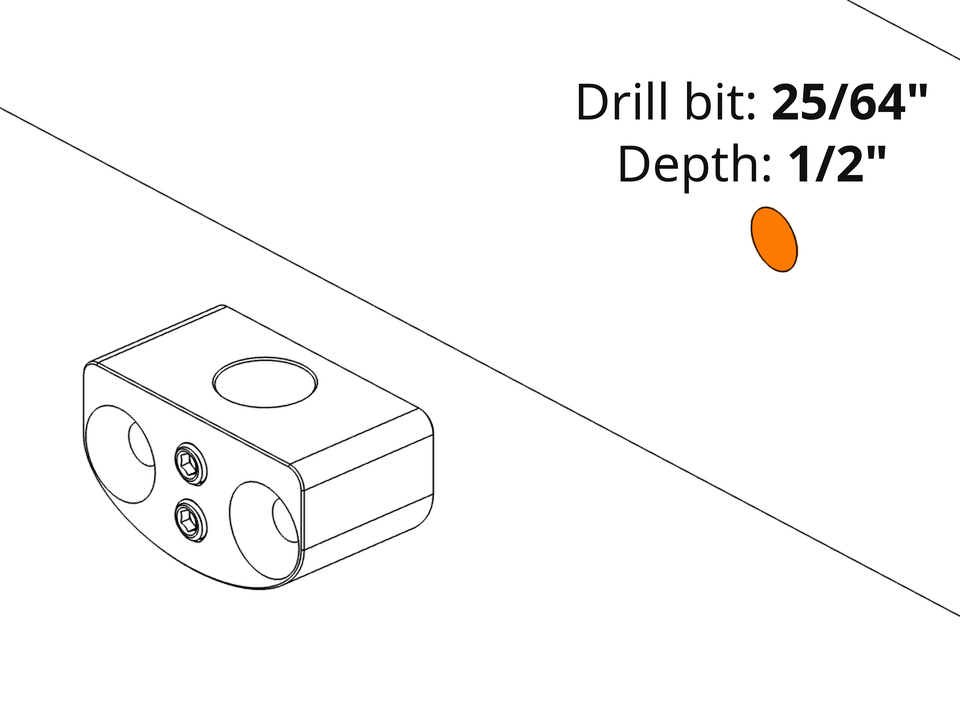
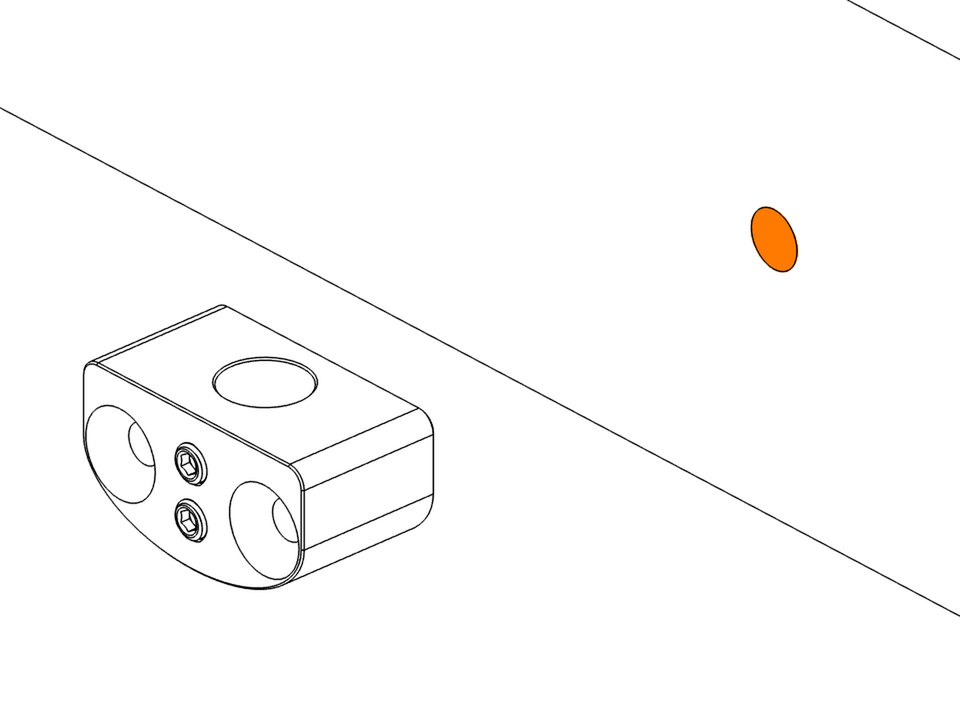
Refine rail and heater install guide copy and drill-hole diagram
- Beam/joist mount: change the drill hole to 3/8" x 1/2" and call the
  locating shaft a support shaft, matching the updated diagram.
- Name the parallel and perpendicular brackets in the mount variant
  intros so each variant says which bracket it uses.
- Simplify the bumper step caption to "lightly tighten its screw".

Changed region(s): [[0.5938, 0.0908, 0.9688, 0.2724]]

diff --git a/_guides/rail-installation.md b/_guides/rail-installation.md
@@ -112,9 +112,9 @@ Watch the full video once before you start. Refer to the step-by-step written in
 
 {% include step.html number="2" title="Prepare the mount" body="Use a ceiling mount or a beam or joist mount, whichever fits your structure. Fasten each bracket with #12 wood screws into solid wood, or through-bolt it with the 1/4-20 screws, washers and lock nuts. Space the brackets to match the rail blocks. Cut each pipe so the rail hangs at the site plan height, allowing 2.25\" for the rail itself, then deburr the cut." %}
 
-{% include step.html variant="true" title="Ceiling mount" body="Use this where you can fasten to the underside of an overhead member." after="Repeat for the second mount, matching the drop length so the rail hangs level." captions="Fasten a parallel bracket to the structure.|Slide the dropdown pipe into the bracket.|Tighten both set screws with the 1/8\" L-wrench, using the full handle until they stop." diagram="rail-02a-screw-bracket.png,rail-02a-insert-pipe.png,rail-02a-set-screws.png" grid="3" %}
+{% include step.html variant="true" title="Ceiling mount" body="Use the parallel bracket where you can fasten to the underside of an overhead member." after="Repeat for the second mount, matching the drop length so the rail hangs level." captions="Fasten a parallel bracket to the structure.|Slide the dropdown pipe into the bracket.|Tighten both set screws with the 1/8\" L-wrench, using the full handle until they stop." diagram="rail-02a-screw-bracket.png,rail-02a-insert-pipe.png,rail-02a-set-screws.png" grid="3" %}
 
-{% include step.html variant="true" title="Beam or joist mount" body="Use this where the only solid surface is a vertical face, such as the side of a beam or joist." after="Repeat for the second mount, matching the drop length so the rail hangs level." captions="Drill a 25/64\" hole, at least 1/2\" deep, for the bracket's locating shaft.|Seat the perpendicular bracket's shaft in the hole and fasten the bracket flat.|Slide the dropdown pipe into the bracket.|Tighten both set screws with the 1/8\" L-wrench, using the full handle until they stop." diagram="rail-02b-drill-hole.png,rail-02b-screw-bracket.png,rail-02b-insert-pipe.png,rail-02b-set-screws.png" grid="true" %}
+{% include step.html variant="true" title="Beam or joist mount" body="Use the perpendicular bracket where the only solid surface is a vertical face, such as the side of a beam or joist." after="Repeat for the second mount, matching the drop length so the rail hangs level." captions="Drill a 3/8\" hole,  1/2\" deep, for the bracket's support shaft.|Seat the bracket's shaft in the hole and fasten the bracket flat.|Slide the dropdown pipe into the bracket.|Tighten both set screws with the 1/8\" L-wrench, using the full handle until they stop." diagram="rail-02b-drill-hole.png,rail-02b-screw-bracket.png,rail-02b-insert-pipe.png,rail-02b-set-screws.png" grid="true" %}
 
 {% include step.html number="3" title="Attach the rail to the pipes" after="Make sure the pipes hang straight down and give the rail a shake to confirm it's solid." captions="Lift the rail up under the pipes with a second person.|Slide each block under its pipe, then lift so the pipe seats in the block.|Tighten the block's set screws with the 1/8\" L-wrench, using the full handle until they stop.|Tighten the two T-nut screws on top with the T30 L-wrench." diagram="rail-03-raise-rail.png,rail-03-rail-mounted.png,rail-03-set-screws.png+rail-03-tnut-screws.png" %}
 

diff --git a/_guides/install-heaters.md b/_guides/install-heaters.md
@@ -60,7 +60,7 @@ Watch the full video once before you start. Refer to the step-by-step written in
 
 ## Close up the rail
 
-{% include step.html number="1" title="Reinstall the bumper and end cap" captions="Slide the bumper on and push it clear of the end.|Refit the end cap.|Refit the two end cap screws.|Slide the bumper back against the end cap and tighten its screw (don't overtighten)." diagram="duo-08-bumper-on.png,duo-08-endcap-on.png,duo-02-endcap-screws.png,duo-01-bumper-screw.png" grid="true" %}
+{% include step.html number="1" title="Reinstall the bumper and end cap" captions="Slide the bumper on and push it clear of the end.|Refit the end cap.|Refit the two end cap screws.|Slide the bumper against the end cap and lightly tighten its screw." diagram="duo-08-bumper-on.png,duo-08-endcap-on.png,duo-02-endcap-screws.png,duo-01-bumper-screw.png" grid="true" %}
 
 ## Final checks
 
